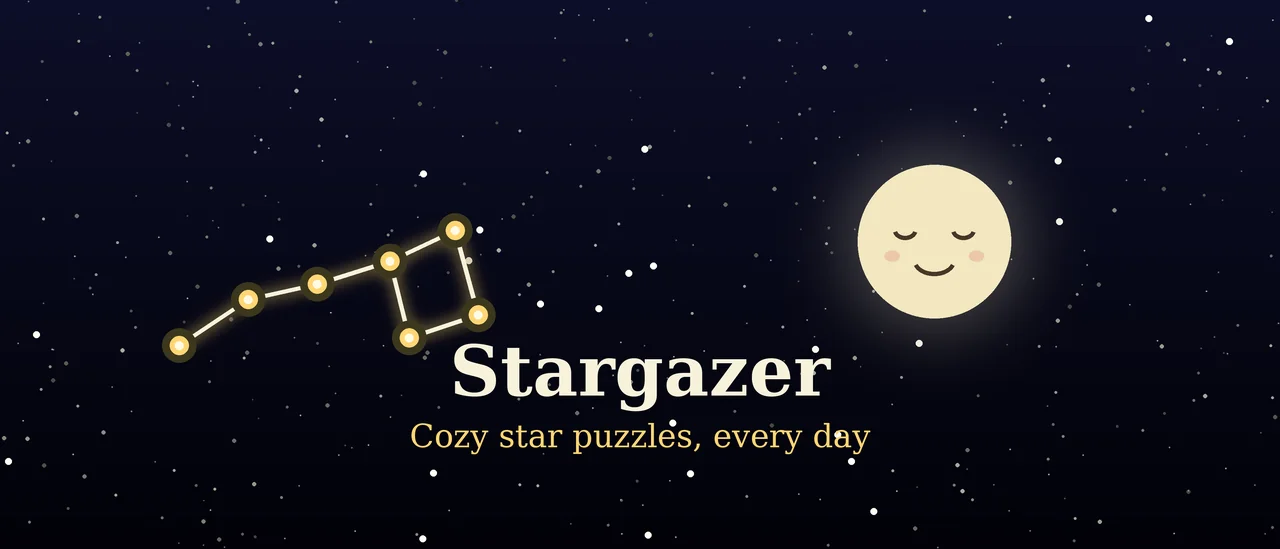
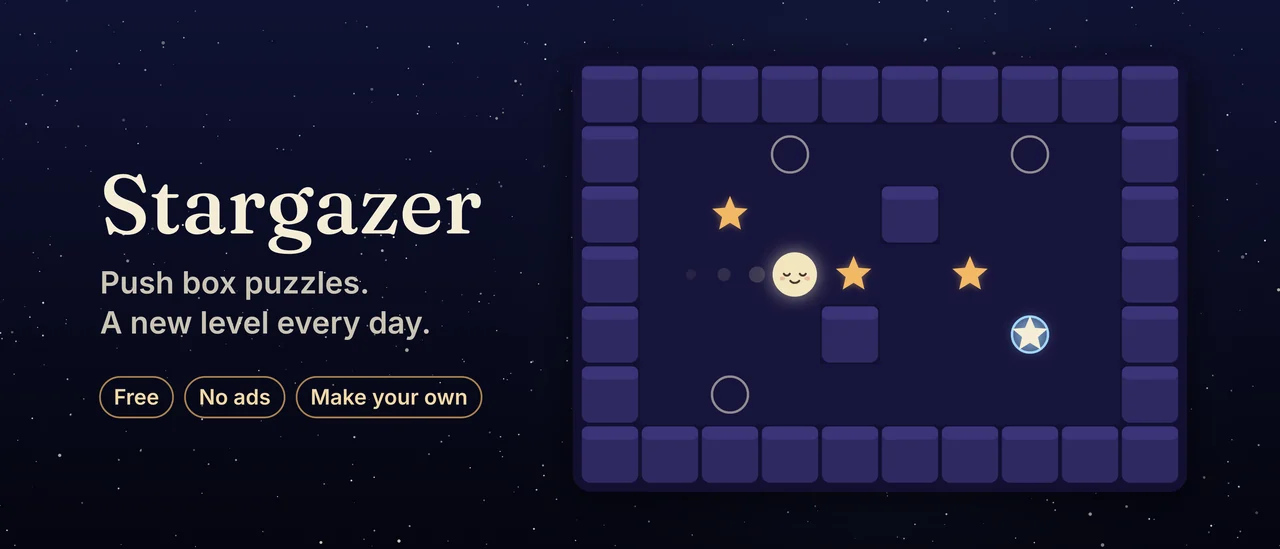
Portfolio: new Stargazer header, search image and screenshots
Swaps in the new Stargazer header and search result images, and three new screenshots (Daily Push, the Fallen Stars map, and Player Levels). The description now mentions making and sharing your own levels.

Claude-Session: https://claude.ai/code/session_01BMhJgJ4tkSUh6upC5RsvoG

diff --git a/index.html b/index.html
@@ -139,9 +139,11 @@
       <article class="app-card">
         <a class="app-banner-link" href="https://stargazer-web-api.onrender.com/" target="_blank" rel="noopener"><img class="app-banner" src="img/stargazer/header.webp" alt="Stargazer header" width="1280" height="549" loading="lazy" decoding="async"></a>
         <div class="app-head"><img class="app-icon" src="img/stargazer/icon.webp" alt="" width="48" height="48"><h2 class="app-name">Stargazer</h2></div>
-        <p class="app-desc">A night sky Sokoban game. Push the fallen stars home to light up constellations, with a new level every day.</p>
+        <p class="app-desc">Free push box puzzles under the night sky. Push every star home, play a new level every day, or make your own and share it.</p>
         <div class="shots">
-          <img src="img/stargazer/2.webp" alt="Stargazer: Fallen Stars push puzzle level" width="600" height="1304" loading="lazy" decoding="async">
+          <img src="img/stargazer/1.webp" alt="Stargazer: Daily Push, a new push puzzle every day" width="600" height="1304" loading="lazy" decoding="async">
+          <img src="img/stargazer/2.webp" alt="Stargazer: Fallen Stars map, where solved levels light up constellations" width="600" height="1304" loading="lazy" decoding="async">
+          <img src="img/stargazer/3.webp" alt="Stargazer: Player Levels, make your own level and play ones others made" width="600" height="1304" loading="lazy" decoding="async">
         </div>
         <div class="app-links">
           <a class="pill" href="https://apps.apple.com/us/app/stargazer-roll-write/id6784056264" target="_blank" rel="noopener"><i class="fa-brands fa-apple"></i> App Store</a>
